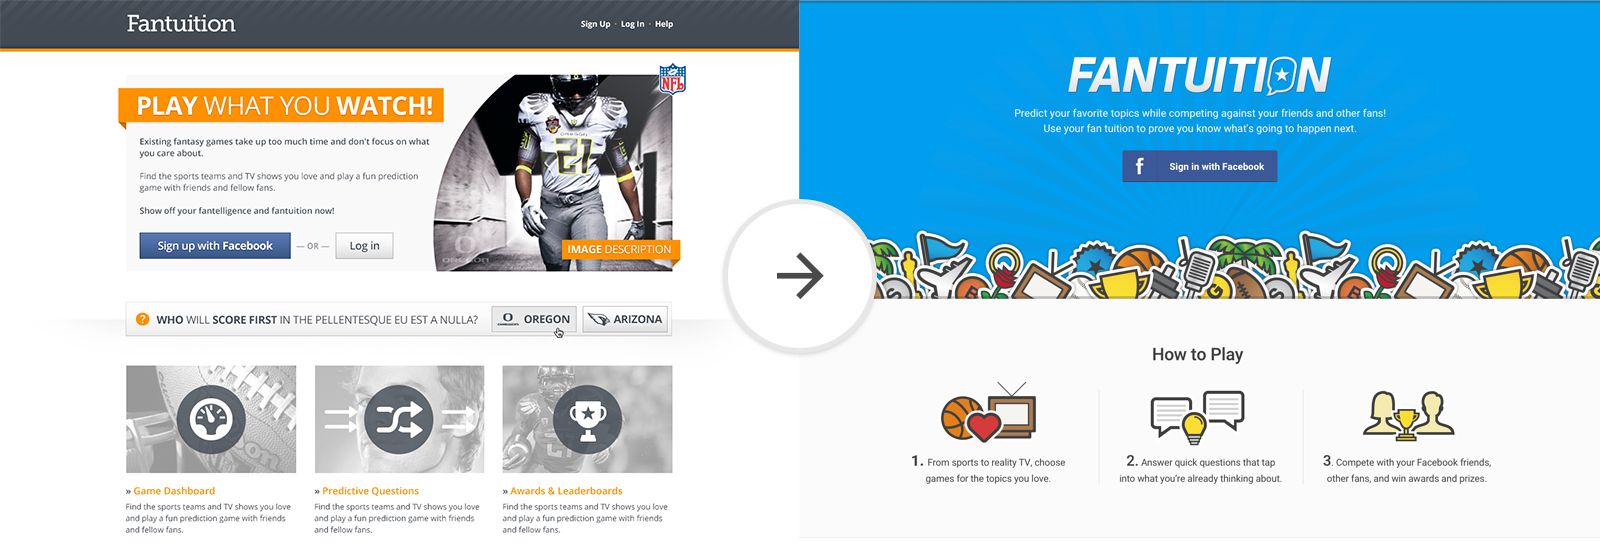
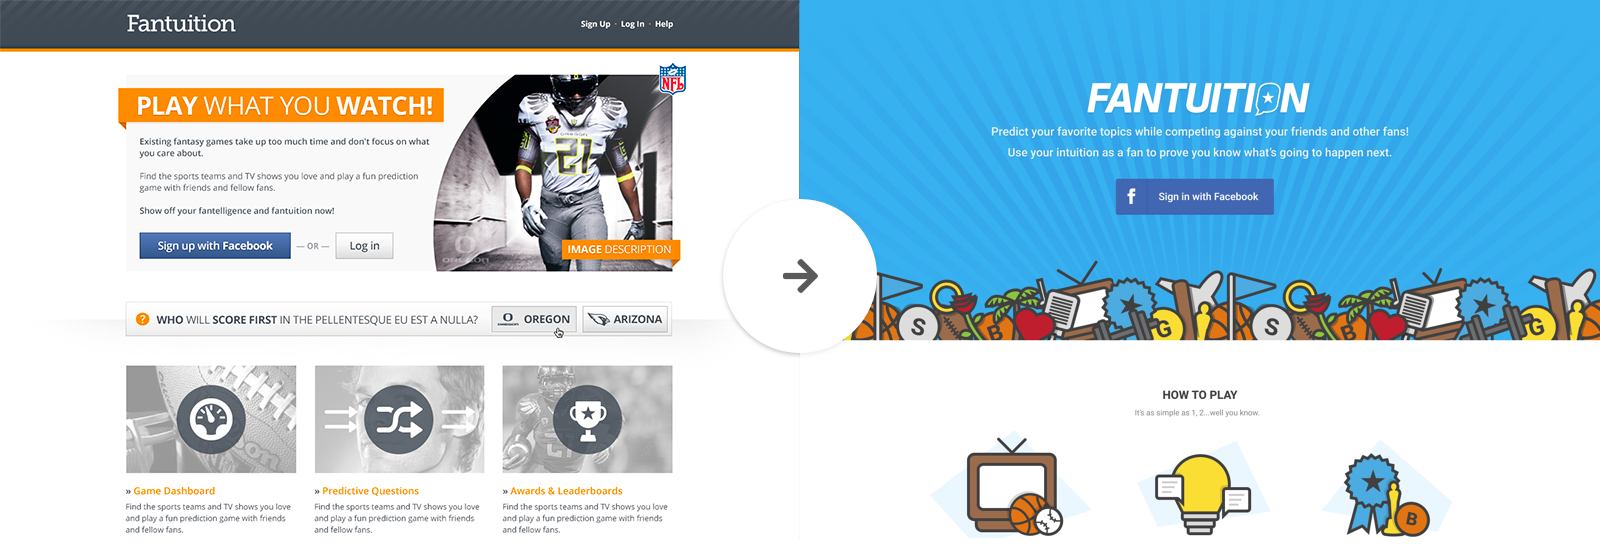
Update Fantuition case study

diff --git a/_works/fantuition.html b/_works/fantuition.html
@@ -10,14 +10,13 @@ excerpt2: This was a funded, bootstrapped startup. I was the lone designer on a 
 ---
 
 <div class="Container--text">
-	<h2 class="Work-section">THE PROBLEM</h2>
+	<h2 class="Work-section">WHAT PROBLEM ARE WE TRYING TO SOLVE AND WHY?</h2>
 	<p>Most current fantasy sports games require a huge time commitment and a great deal of knowledge and dedication to be successful (even with that, I still manage to constantly lose. Go, me.). They require a deep knowledge of specific players, teams and topics, that are often of no interest to you.</p>
+	<blockquote>How might we create a prediction game for fans that allows them to quickly compete <strong>but also keeps them engaged?</strong> </blockquote>
 
 
-  <h2 class="Work-section">THE IDEA</h2>
-  <p>Based on the problem above, the idea was to create a simple game that allowed people to predict the outcomes of their favorite events. It needed be simple. It needed be fast. It needed to be categorical, so that a user can choose a topic they are interested and invested in.
-
-  <h2 class="Work-section">MY ROLE</h2>
+  <h2 class="Work-section">MY ROLE & RESPONSIBILITIES</h2>
+  <p><strong>The Team</strong> – CEO, CTO, PM (Me) & three software engineers.</p>
   <ul>
   	<li><strong>Branding</strong> – Responsible for a complete redesign of the brand.</li>
   	<li><strong>UX Design and Research</strong> – Whether it was prototyping, wireframing, user testing, A/B tests or other UX processes, I was always in the mix.</li>
@@ -25,9 +24,43 @@ excerpt2: This was a funded, bootstrapped startup. I was the lone designer on a 
   	<li><strong>Front-End</strong> – Established a front-end framework and owned all HTML/CSS.</li>
   </ul>
 
-  <h2 class="Work-section">THE APPROACH</h2>
+	<h2 class="Work-section">WHO ARE WE DESIGNING FOR & WHY?</h2>
+	<p>We initially targeted sports fans, specifically those already invested in fantasy sports. That transformed over time as we focused on entertainment categories.</p>
+	<p>Fantasy sports are a multi-billion dollar industry in the US. We wanted to bring the thrill of playing these games to a larger market for everyone's enjoyment.</p>
+</div>
 
-	<p><strong>Rebrand</strong> – The goal was to better align our identity with the product offering, which was games revolving around sports <strong>and</strong> entertainment. The product was transitioned from muted color palette that was aimed at sports fans, to a brighter theme that portrayed "fun", across multiple categories, not just sports. The improved design was tested with remote users on Usertesting.com, as well as in person.</p>
+<div class="Container--text">
+	<h2 class="Work-section">MEASURES OF SUCCESS</h2>
+	<p>A few key measures of success will be: </p>
+</div>
+
+<div class="Grid u-">
+	<div class="Grid-cell u-md-size1of3">
+		<div class="box">
+			<h2>30%</h2>
+			<p>Increase MAU's by 50% month over month.</p>
+		</div>
+	</div>
+	<div class="Grid-cell u-md-size1of3">
+		<div class="box">
+			<h2>50%</h2>
+			<p>Increase Facebook App Page followers by 50% month over month.</p>
+		</div>
+	</div>
+	<div class="Grid-cell u-md-size1of3">
+		<div class="box">
+			<h2>50%</h2>
+			<p>Reduce time spent calculating cost sharing per org.</p>
+		</div>
+	</div>
+</div>
+
+
+
+  	<div class="Container--text">
+  		  <h2 class="Work-section">CURRENT APPROACH & PAIN POINTS</h2>
+		<p><strong>Branding Misalignment</strong> – As we continued building the product, talking to users and looking at the game data, we noticed games surrounding entertainment categories were gaining a lot of traction. Because of this, I had a goal to better align our identity with the product offering, which was games revolving around sports <strong>and</strong> entertainment. I transitioned from the muted color palette, to a brighter theme that portrayed "fun", across multiple categories, not just sports. <blockquote>We performed First Impression Tests on Usertesting.com to get an idea of how the design is perceived and what emotions it evokes.</blockquote></p>
+	</div>
 
 	<div class="Image u-textCenter">
 		<a data-fancybox="gallery" href="/assets/img/work/fantuition/fantuition_rebrand.png">
@@ -35,36 +68,42 @@ excerpt2: This was a funded, bootstrapped startup. I was the lone designer on a 
 		</a>
 	</div>
 
-	<p><strong>User Flow</strong> – With the research and analysis phase in a good place, it was time to start visualizing some low fidelity user flows for testing and validation. We decided to start with the web application.</p>
-	
+<div class="Container--text">
+	<p><strong>User Flow</strong> – I created a user flow to get a lay of the land. This allows me to see the whole picture and pinpoint areas that we could focus our efforts to meet our user and business goals.</p>
+	<p>We were very focued on growing our userbase. I was looking for opportunites to create virality and social interactions.</p>
+</div>
 		<figure class="Image">
 				<img src="/assets/img/work/fantuition/fantuition_games_user_flow.png" />
 		</figure>
-
+<!--
 	<figure class="Image">
 		<a href="/assets/img/work/fantuition/fantuition_web_all.pdf">
 			<img src="/assets/img/work/fantuition/fantuition_web_mock.png" />
 		</a>
 		<figcaption>Click for More</figcaption>
 	</figure>
-
+-->
+<div class="Container--text">
  <h2 class="Work-section">IMPROVEMENTS</h2>
-<p>Fantuition quickly cumulated a loyal, dedicated fan-base. A community that was always ready and willing to provide feedback, which made testing and improving the experience a dream. We were able to quickly uncover insights regarding preferred game types, styles and formats.<p>
 
+<p>The product was beloved by many, and our userbase was constantly growing, but there were was much to be desired when it came to user engagment. Visitors were only visiting for a short period of time to play their game, then abandoning the app. We had a few ideas to fix this:</p>
 
-<p>It quickly became very clear that although the product was beloved by many, it wasn't sticky enough. Although we had strong metrics regarding DAUs, those visitors were only visiting for a short period of time to make their picks, then abandoning the app. To remedy this and increase stickiness, we tested a few options:</p>
+</div>
 
 	<div class="Callout">
 		<ol>
-			<li><strong>Mobile</strong> – Our mobile experience wasn't what it needed to be. We had data from analytics and user interviews that implied this should be the primary area of focus.</li>
-			<li><strong>Daily Pick Game Type</strong> – Encourages users to visit the app every day, as opposed to just the day of their scheduled event. Also increases game variety.</li>
-			<li><strong>Gamification to the Rescue</strong> – Many psychological advantages which led to increased engagement.</li>
+			<li><strong>Mobile</strong> – How might we quickly build a mobile offering that allows users to access Fantuition from anywhere?</li>
+			<li><strong>General Engagement</strong> – How might we encourage users to visit the app every day, as opposed to just the day of their scheduled event?</li>
+			<li><strong>Social Interactions</strong> – How might we increase opportunities to share picks, awards and any other performance within the application, which leads to our next focus?
+			<li><strong>Gamification</strong> – How might we offer a more gamified experience that resulted in users participating in more games and increasing their engagment with the product overall?</li>
 		</ol>
 	</div>
 
-	<p><strong>1. Mobile</strong> – When picks are needed, an email is sent to the user. When reviewing our data, we could see that roughly 60% of these emails were opened on phones. Improving the experience on mobile could greatly increase engagement while making picks as well as during an event (many people admitted to being on their phone while watching an event).</p>
+<div class="Container--text">
+	<p><strong>1. Mobile</strong> – When picks are needed, an email is sent to the user. Roughly 60% of these emails were opened on phones. When I joined there was not a mobile experience. It was essential. This would allow users to easily interact with the product <strong>while</strong> watching the event they are a fan of.</p>
 
 	<blockquote>“Although an iOS app was planned for the near future, we knew we needed to act more quickly. We decided to build a mobile-web experience using jQuery UI.”</blockquote>
+</div>
 
 	<figure class="Image">
 		<a data-fancybox="gallery" href="/assets/img/work/fantuition/fantuition_mobile_web.png">
@@ -73,14 +112,33 @@ excerpt2: This was a funded, bootstrapped startup. I was the lone designer on a 
 		<figcaption>Mobile-web Flow – Click for Larger</figcaption>
 	</figure>
 
-
-
-	<p><strong>2. Daily Pick</strong> – The Daily Pick instantly resulted in a dramatic increase in daily active users. It was quick, it was easy and there was very little time or risk involved in playing. It also allowed us to introduce an even larger variety of events. Many of these events may not have been worthy of a season, or even could be, as they are limited in time and length, but could easily be featured for a day. We could then leverage these one-off events in our marketing efforts, to acquire new users to the app.</p>
-
-	<p><strong>3. Gamification</strong> – The most common frustration we heard from users was related to season timing. If a season had already been active for an extended period of time and a new user wanted to join and play, they had little to no chance of winning that season and obtaining the prize. This gave them very little incentive to join even if the act of playing is enjoyable in and of itself. To rectifyy this issue, we created a weighted reward system, based on the size of the game. That is, rather than receiving a fixed number of points per game you won, you were now awarded certain number of tokens that was dynamically calculated based on your performance and the number of people in the game. So, even if you joined late, you had the opportunity to do well and instantly climb the leaderboard.</p>
-
-	<p>We gave people that satisfaction of "collecting" their rewards. We also introduced another element to the gamification system: "Rewards". These rewards would extend from the game experience and into the overall Fantuition experience. Visiting, sharing, inviting, commenting and many other user actions could result in a reward. There's plenty of data that supports the positive psychological effects of offering rewards and tokens to users.</p>
+<div class="Container--text">
+	<p><strong>2. Daily Pick</strong> – The Daily Pick was created to give people a chance to compete in a game every day. It kept them coming back daily. The Daily Pick instantly resulted in a dramatic increase in daily active users. It was quick, it was easy and there was very little time or risk involved in playing. It also allowed us to introduce an even larger variety of events. Many of these events may not have been worthy of a season, or even could be, as they are limited in time and length, but could easily be featured for a day. We could then leverage these one-off events in our marketing efforts, to acquire new users to the app.</p>
 </div>
+
+	<figure class="Image">
+		<a data-fancybox="gallery" href="/assets/img/work/fantuition/fantuition-daily-pick.png">
+			<img src="/assets/img/work/fantuition/fantuition-daily-pick.png" />
+		</a>
+	</figure>
+
+
+<div class="Container--text">
+	<p><strong>3. Social Interactions</strong> – We had a strong prescence on Facebook. We need to leverage the social aspects of the application and encourage users to share and interact in the correct context. We focused on interactions between users: Following, comments and proudly sharing their results. Afterall, these are people with a shared interest. They are fans. They are invested. They are proud.</p>
+</div>
+
+	<figure class="Image">
+		<a data-fancybox="gallery" href="/assets/img/work/fantuition/fantuition-after-picks.png">
+			<img src="/assets/img/work/fantuition/fantuition-after-picks.png" />
+		</a>
+	</figure>
+
+<div class="Container--text">
+	<p><strong>4. Gamification</strong> – The most common frustration we heard from users was related to season timing. If a season had already been active for an extended period of time and a new user wanted to join and play, they had little to no chance of winning that season and obtaining the prize. This gave them very little incentive to join an already started event season. </p>
+		
+		<p><strong>To rectify this issue, we created a weighted reward system, based on the size of the game.</strong> Rather than receiving a fixed number of points per game, you were now awarded certain number of tokens that was dynamically calculated based on your performance and the number of people in the game. So, even if you joined late, you had the opportunity to do well and instantly climb the leaderboard.</p>
+</div>
+
 <div class="Grid">
 	<div class="Grid-cell u-size-full u-md-size1of2">
 		<div class="u-textCenter">
@@ -99,10 +157,38 @@ excerpt2: This was a funded, bootstrapped startup. I was the lone designer on a 
 </div>
 
 <div class="Container--text">
+	<p>We also introduced another element to the gamification system: Rewards and XP. These rewards would extend from the game experience and into the overall Fantuition experience. Visiting, sharing, inviting, commenting and many other user actions could result in a reward. </p>
+</div>
+
+	<figure class="Image">
+		<a data-fancybox="gallery" href="/assets/img/work/fantuition/fantuition_gamify-details.png">
+			<img src="/assets/img/work/fantuition/fantuition_gamify-details.png" />
+		</a>
+	</figure>
+
+
+
+<div class="Container--text">
+
+<h2 class="Work-section">WHAT WE LEARNED</h2>
+	<p>There was definitely a market for this product. People want to be connected to the things they are passionate about. This allowed them to feel a part of a community.</p>
+	<p>What we didn't account for is the difficulty managing these games and events. There is more to be thought about when it comes to creating events and categories, scoring them and managing the questions and answers.</p>
+</div>
+
+
+<div class="Container--text">
 
 <h2 class="Work-section">THE RESULT</h2>
 	<p>These additions to the overall experience resulted in a dramatic increase in many of our KPIs. More importantly, qualitative feedback showed that the overall perception of Fanuition as a quick, fun prediction gaming experience was at an all time high. Fantuition was truly FUNtuition (BA DUM, CHING!).</p>
 </div>
+
+
+	<figure class="Image">
+		<a data-fancybox="gallery" href="/assets/img/work/fantuition/fantuition-ios.png">
+			<img src="/assets/img/work/fantuition/fantuition-ios.png" />
+		</a>
+	</figure>
+
 
 <div class="Grid">	
 	<div class="Grid-cell u-size1of4">
